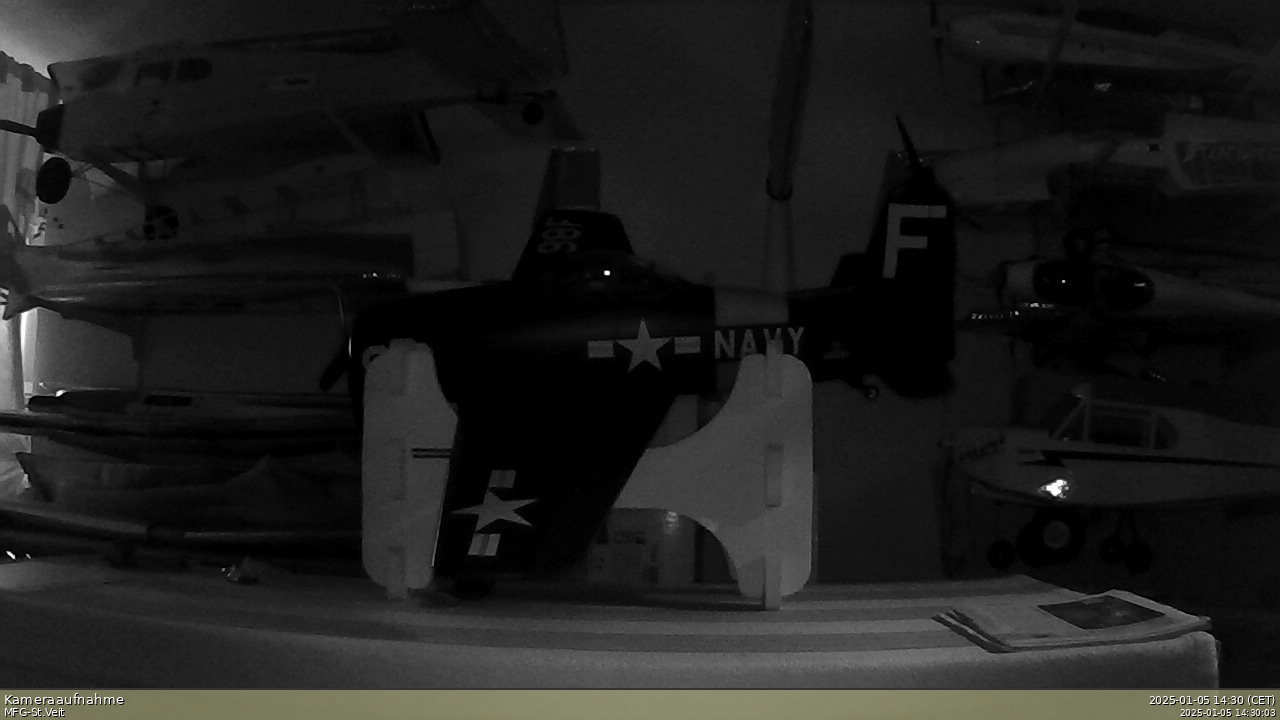
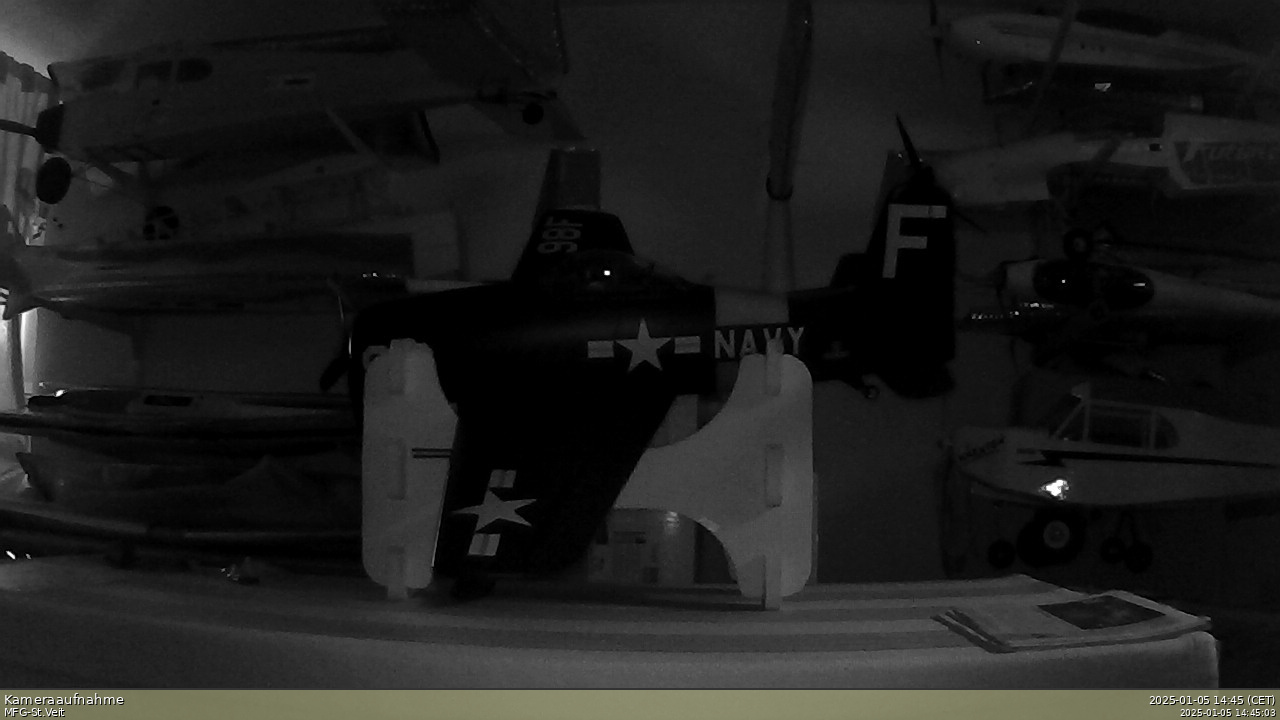
Automatischer Upload: 2025-01-05 14:45:04

diff --git a/index.html b/index.html
@@ -125,7 +125,7 @@
     </div>
 
     <div class="footer">
-        <p>MFG-St.Veit/Glan - aktualisiert am 2025-01-05 14:30:04
+        <p>MFG-St.Veit/Glan - aktualisiert am 2025-01-05 14:45:04
     </div>
 </body>
 </html>
